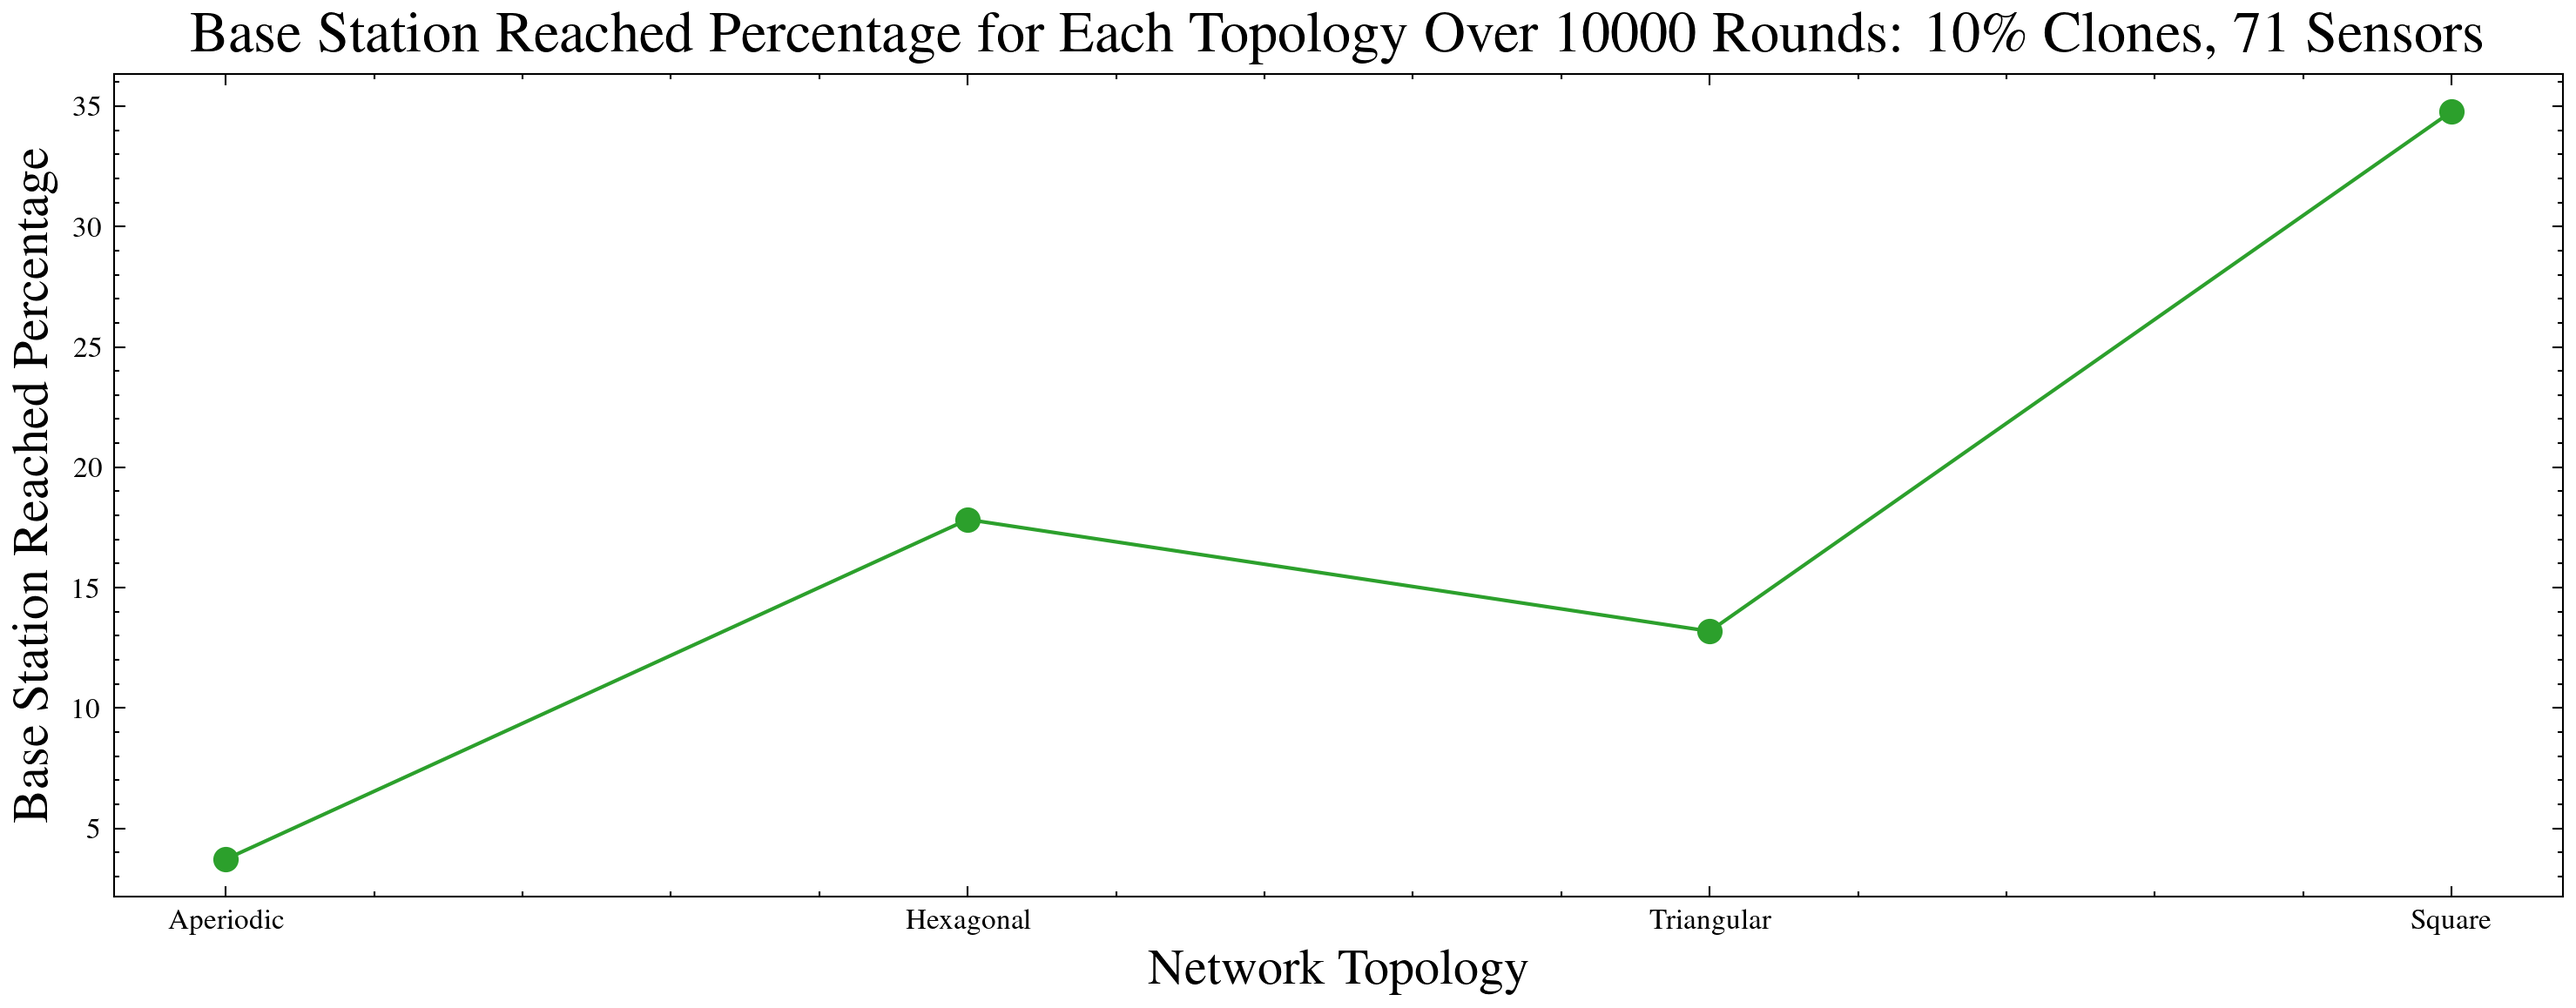
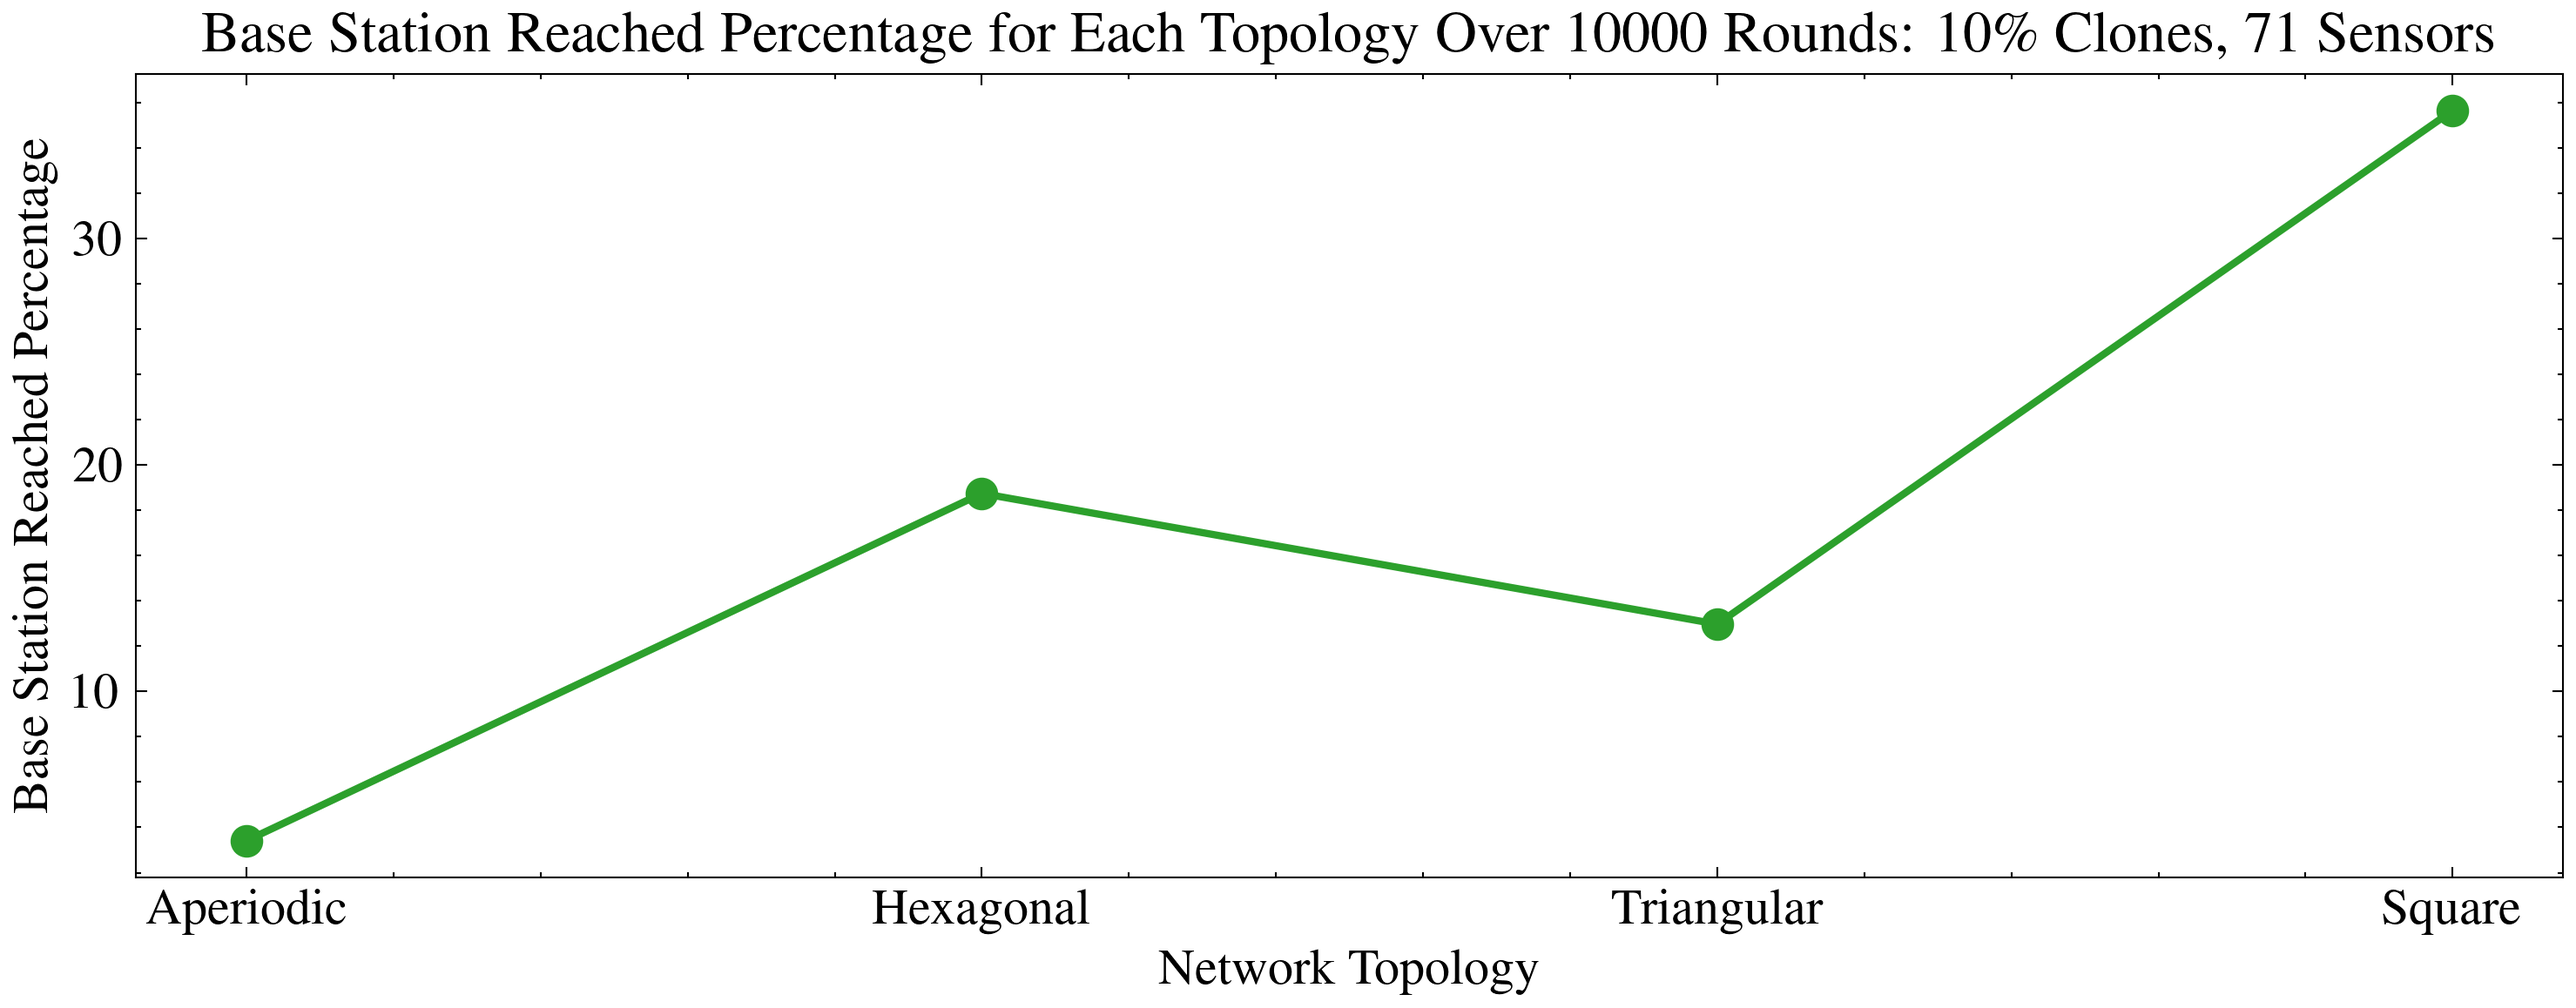
AllG

diff --git a/spectretileinscribed2.0.py b/spectretileinscribed2.0.py
@@ -6,8 +6,20 @@ from shapely.geometry import Polygon
 from spectre import buildSpectreBase, transPt, MetaTile, buildSupertiles, SPECTRE_POINTS
 import scienceplots
 
-plt.style.use(['science', 'ieee'])
-plt.rcParams.update({'figure.dpi': 600})
+plt.style.use(['science', 'ieee', 'high-vis'])
+plt.rcParams.update({
+    'figure.figsize': (6, 4),   # Size of the figure
+    'axes.titlesize': 18,       # Title size
+    'axes.labelsize': 16,       # X and Y label size
+    'xtick.labelsize': 14,      # X tick label size
+    'ytick.labelsize': 14,      # Y tick label size
+    'legend.fontsize': 12,      # Legend font size
+    'lines.markersize': 8,      # Marker size
+    'lines.linewidth': 2,       # Line width
+    'figure.dpi': 300,          # DPI for high-res images
+    'savefig.dpi': 300,         # DPI for saved figures
+})
+
 
 # Parameters
 N_ITERATIONS = 2
@@ -82,9 +94,7 @@ def plot_coverage_map(x_coords, y_coords, coverage_map):
     fig.colorbar(c, ax=ax, ticks=np.arange(0, np.max(coverage_map) + 1, 1))
     ax.set_aspect('equal', adjustable='box')
     plt.title("Coverage Map")
-    plt.xlabel("Width")
-    plt.ylabel("Height")
-    plt.savefig("coverage_map_highres_3.png", dpi=600)
+    plt.savefig("coverage_map_highres_77.png", dpi=300)
     plt.show()
 
 def plot_spectre_tiles_with_sensors(tiles, sensor_positions, sensor_radius):
@@ -118,8 +128,8 @@ def plot_spectre_tiles_with_sensors(tiles, sensor_positions, sensor_radius):
 
     ax.set_aspect('equal', adjustable='box')
     plt.grid(True)
-    plt.title("Spectre Tile with Sensors Inscribed for Coverage")
-    plt.savefig("spectre_with_sensors_inscribed_coverage_highres_3.png", dpi=600)
+    plt.title("Spectre Tile with Sensors Inscribed")
+    plt.savefig("spectre_with_sensors_inscribed_coverage_highres_67.png", dpi=300)
     plt.show()
 
 # Generate spectre tiles

diff --git a/SECURITY/scrapmainfile.py b/SECURITY/scrapmainfile.py
@@ -157,11 +157,10 @@ def plot_network_with_paths(network, paths, clone_positions, detected_clones, ba
     # Plot paths
     for path in paths:
         path = np.array(path)
-        plt.plot(path[:, 0], path[:, 1], 'r-', linewidth=1, alpha=0.5)
+        if len(path) > 0:
+            plt.plot(path[:, 0], path[:, 1], 'r-', linewidth=1, alpha=0.5)
 
     plt.title(title, fontsize=18, fontweight='bold')
-    plt.xlabel('Width', fontsize=16)
-    plt.ylabel('Height', fontsize=16)
     plt.legend(fontsize=12, loc='center left', bbox_to_anchor=(1, 0.5))
     plt.tight_layout()
 

diff --git a/SECURITY/network_generation.py b/SECURITY/network_generation.py
@@ -61,7 +61,7 @@ def generate_square_network(num_sensors, sensor_radius):
 
 def main():
     # Example usage
-    num_sensors = 559
+    num_sensors = 71
     sensor_radius = SENSOR_RADIUS
     
     aperiodic_network = generate_aperiodic_network(sensor_radius, num_sensors, 3)

diff --git a/SECURITY/spectre.py b/SECURITY/spectre.py
@@ -2,7 +2,7 @@
 import numpy as np
 ## configlation
 #* increase this number for larger tilings.
-N_ITERATIONS = 3
+N_ITERATIONS = 2
 #* shape Edge_ration tile(Edge_a, Edge_b)
 Edge_a = 4.1067761806981515 # 20.0 / (np.sqrt(3) + 1.0)
 Edge_b = 4.1067761806981515 # 20.0 - Edge_a
